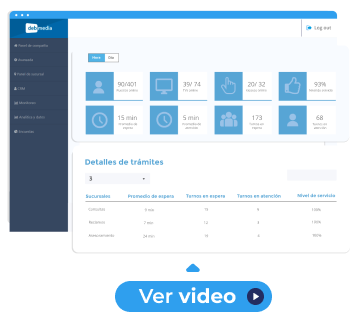
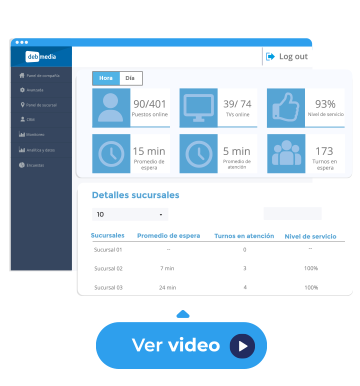
prueba

diff --git a/styles/home.scss b/styles/home.scss
@@ -23,7 +23,10 @@
 
     &_mainNoti {
         position: absolute;
-        bottom: -90px;
+        
+    bottom: -130px;
+    max-width: 89%;
+
     }
 
     &_videoshape {
